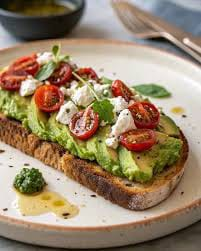
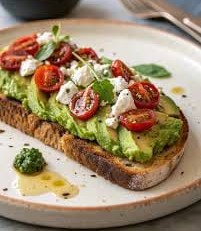
Update menu images and layout

diff --git a/css/style.css b/css/style.css
@@ -32,11 +32,14 @@
     background-color: #ffffff;
     padding: 15px;
     border-radius: 10px;
+    overflow: hidden;
 }
 .menu-item img {
     width: 100%;
-    height: 180px;
+    height: 480px;
     object-fit: cover;
+    border-radius: 10px;
+    
 }
 .menu-item h3 {
     color: #292524;

diff --git a/index.html b/index.html
@@ -51,6 +51,6 @@
 
 
 
-<script type="module" src="./js/main.js"></script>
+<script src="./js/main.js"></script>
 </body>
 </html>
